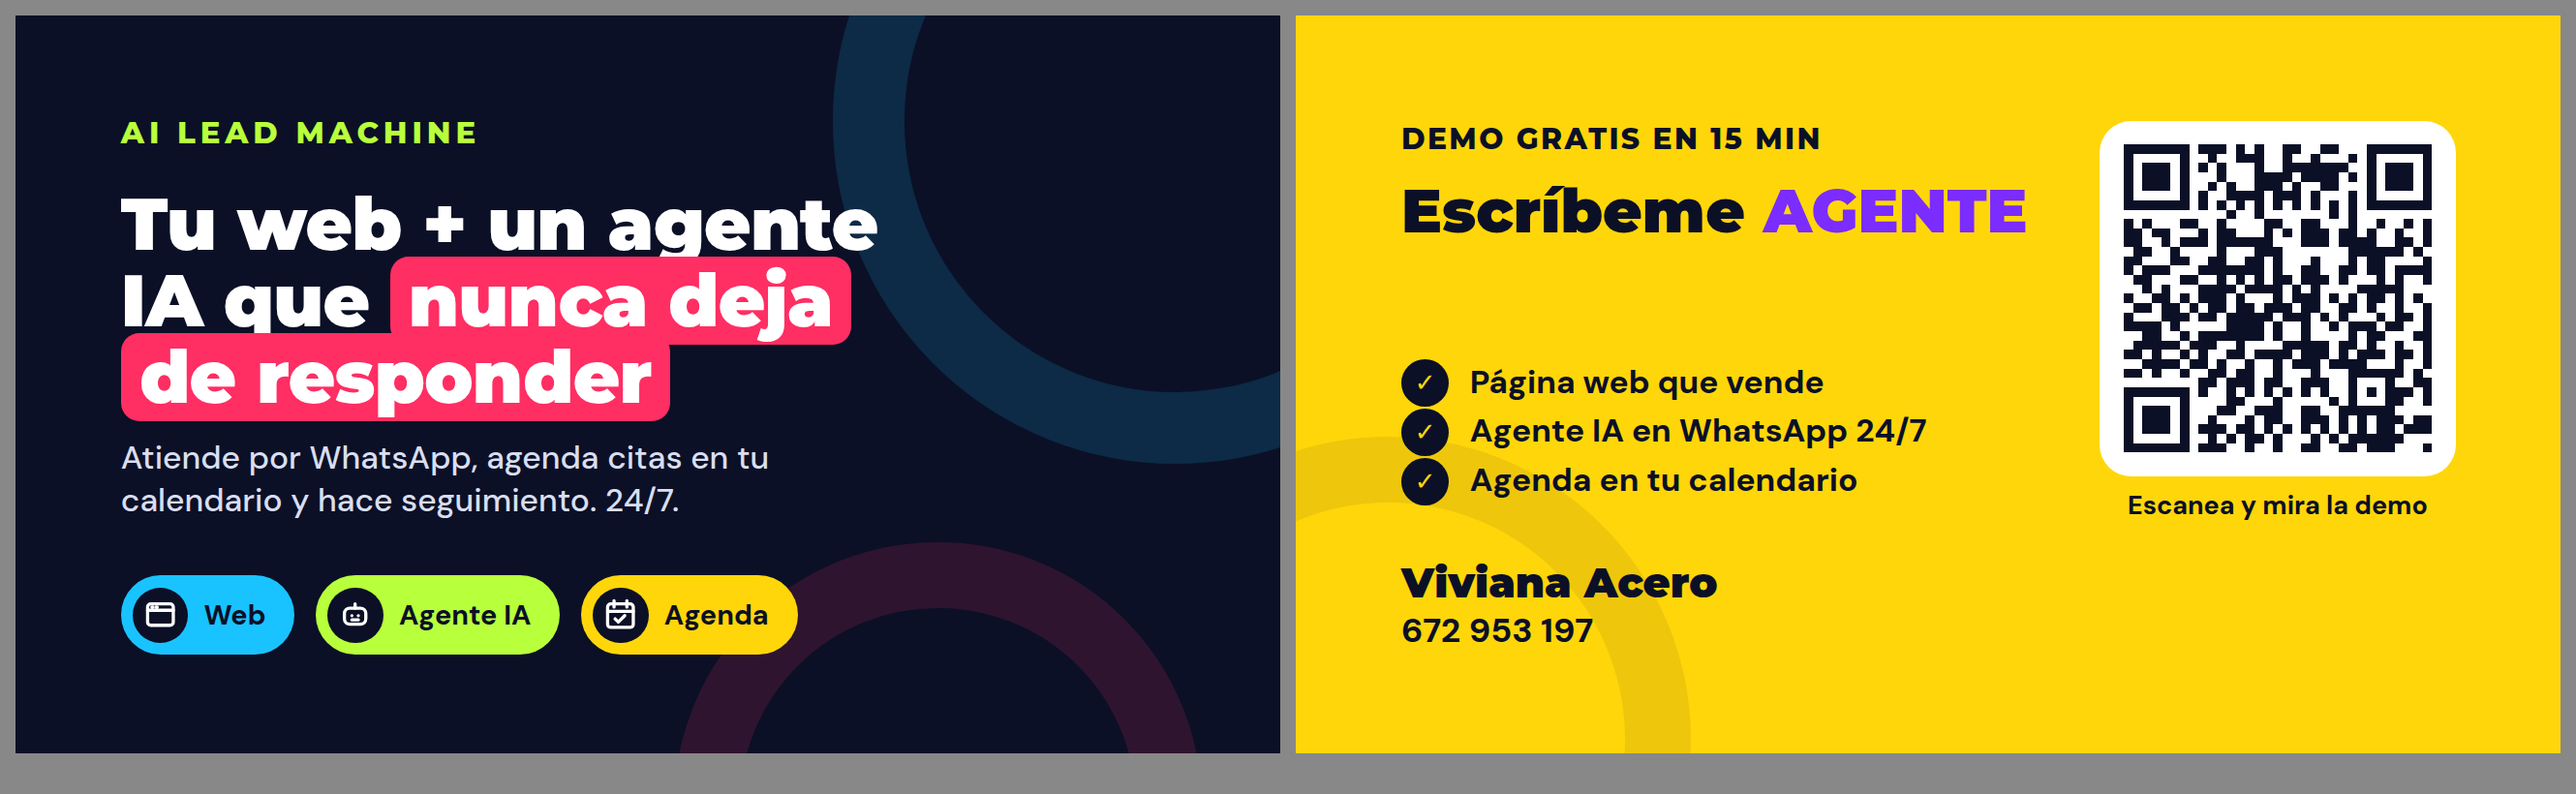
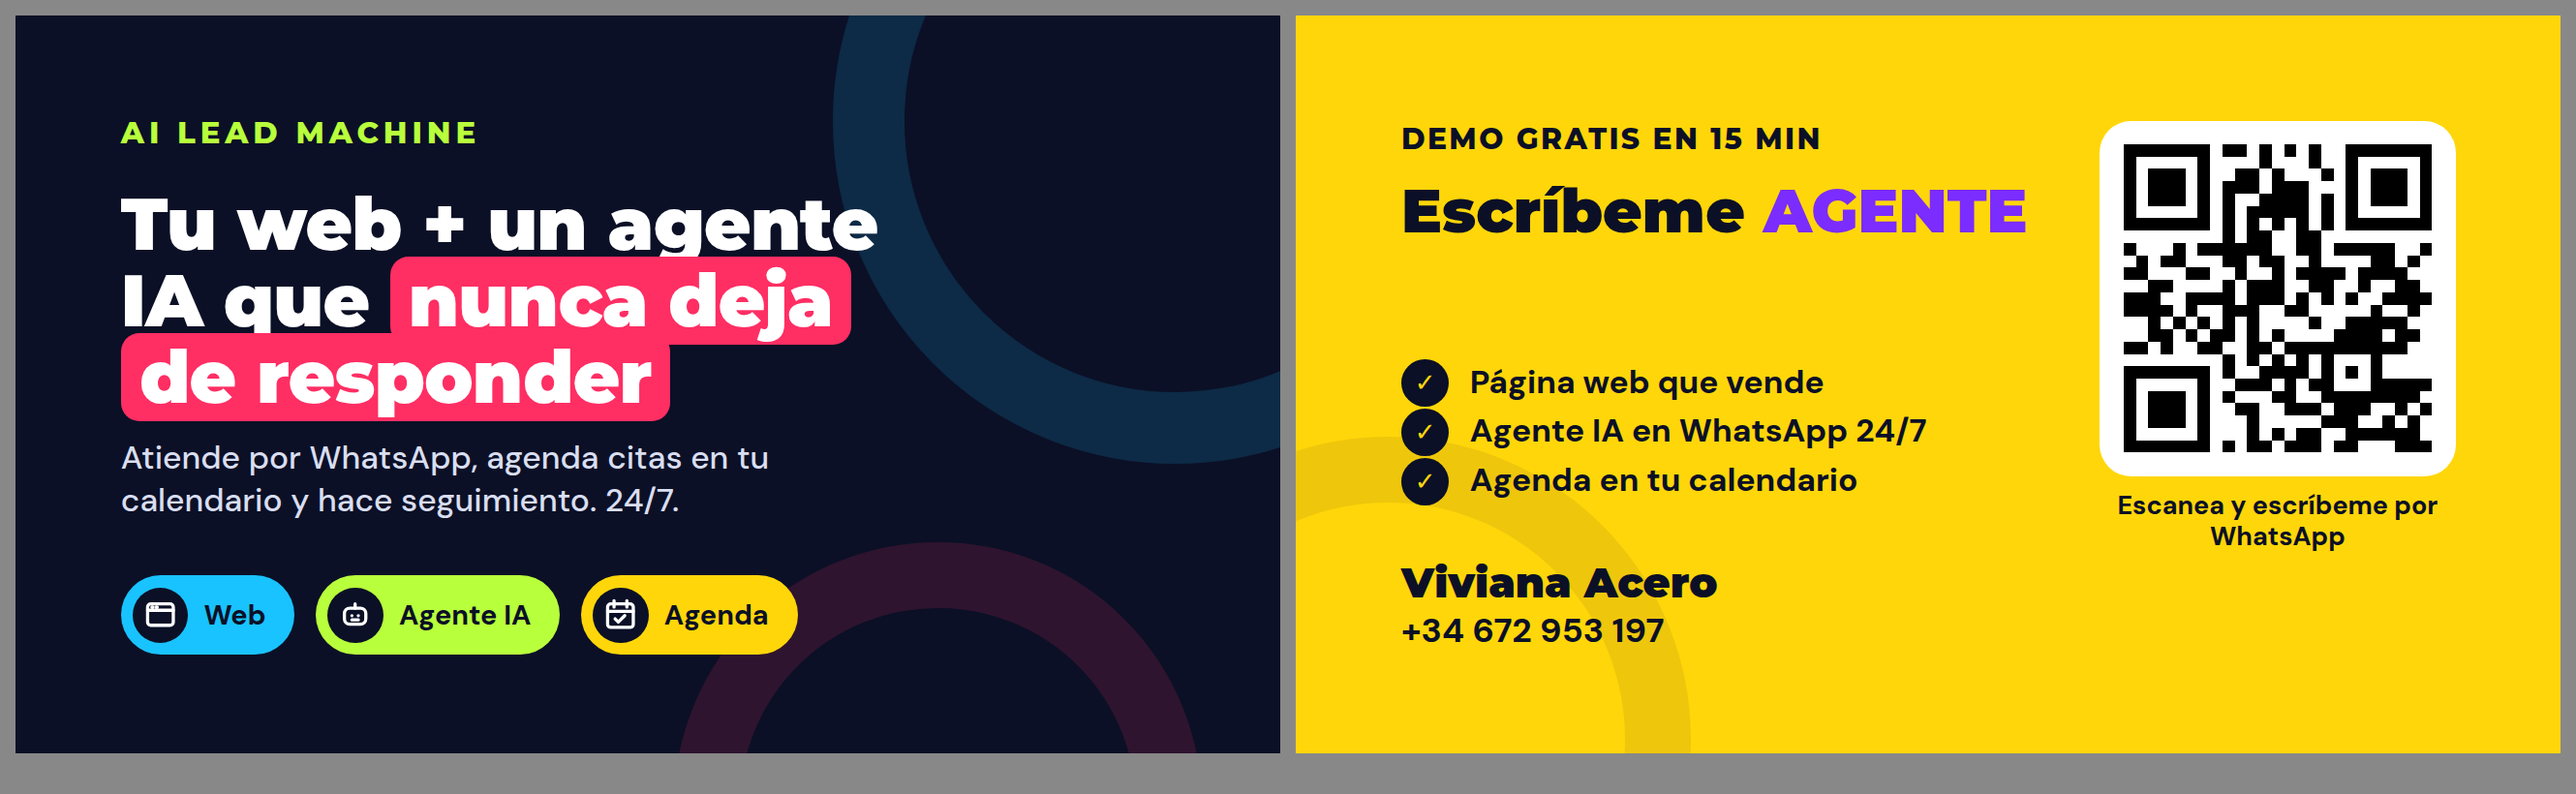
Tarjeta: el QR abre el chat de WhatsApp (+34 672 953 197)
Claude-Session: https://claude.ai/code/session_012pES2kzzzwPEYsotem2e5X

Changed region(s): [[0.8113, 0.1829, 0.9673, 0.5793], [0.8113, 0.6098, 0.9361, 0.7012], [0.5305, 0.7622, 0.6553, 0.8232]]

diff --git a/tarjetas/ai-lead-machine/compartir.html b/tarjetas/ai-lead-machine/compartir.html
@@ -53,7 +53,7 @@
       <div class="t2">Escríbeme <span data-f="palabra"></span></div>
       <div class="who"><span data-f="nombre"></span> · <span data-f="whatsapp"></span></div>
     </div>
-    <div><div class="qr" data-qr></div><div class="qrcap">Escanea y mira la demo</div></div>
+    <div><div class="qr" data-qr></div><div class="qrcap" data-f="qrtexto"></div></div>
   </div>
 </div>
 <script src="comun.js"></script>

diff --git a/tarjetas/ai-lead-machine/imprimir.html b/tarjetas/ai-lead-machine/imprimir.html
@@ -67,7 +67,7 @@
   <div class="list"><div>Página web que vende</div><div>Agente IA en WhatsApp 24/7</div><div>Agenda en tu calendario</div></div>
   <div class="who"><b data-f="nombre"></b><span data-f="whatsapp"></span></div>
   <div class="qr" data-qr></div>
-  <div class="qrcap">Escanea y mira la demo</div>
+  <div class="qrcap" data-f="qrtexto"></div>
 </section>
 <script src="comun.js"></script>
 </body>

diff --git a/tarjetas/ai-lead-machine/comun.js b/tarjetas/ai-lead-machine/comun.js
@@ -6,6 +6,7 @@ window.CFG = Object.assign({
   whatsapp: '[Tu WhatsApp]',
   url: 'ai-lead-machine-demo.onrender.com/implementar.html',
   palabra: 'AGENTE',
+  qrtexto: 'Escanea y mira la demo',
 }, window.__CFG || {});
 
 const C = window.CFG;

diff --git a/tarjetas/ai-lead-machine/LEEME.md b/tarjetas/ai-lead-machine/LEEME.md
@@ -7,7 +7,7 @@
 | `previsualizacion-imprimir.png` | Vista previa de las dos caras |
 
 ## Completar tus datos
-Edita `datos.json` (nombre, WhatsApp, y `"qr": "whatsapp"` si quieres que el QR abra tu chat en vez de la demo) y ejecuta:
+Edita `datos.json` (nombre, WhatsApp con prefijo del país y `"qr"`: `"whatsapp"` abre tu chat, `"demo"` abre la demo) y ejecuta:
 
     MODULES=<carpeta con node_modules de playwright y qrcode> node render.mjs
 
